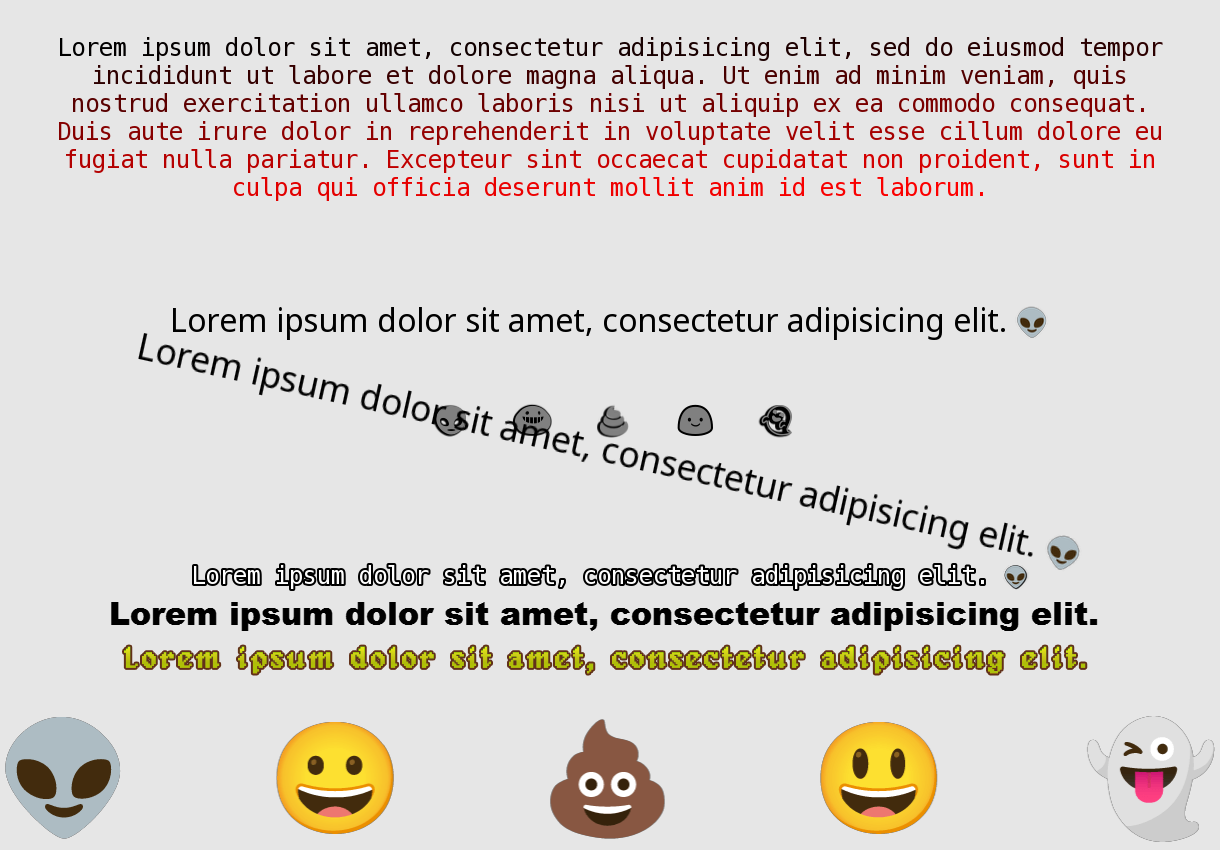
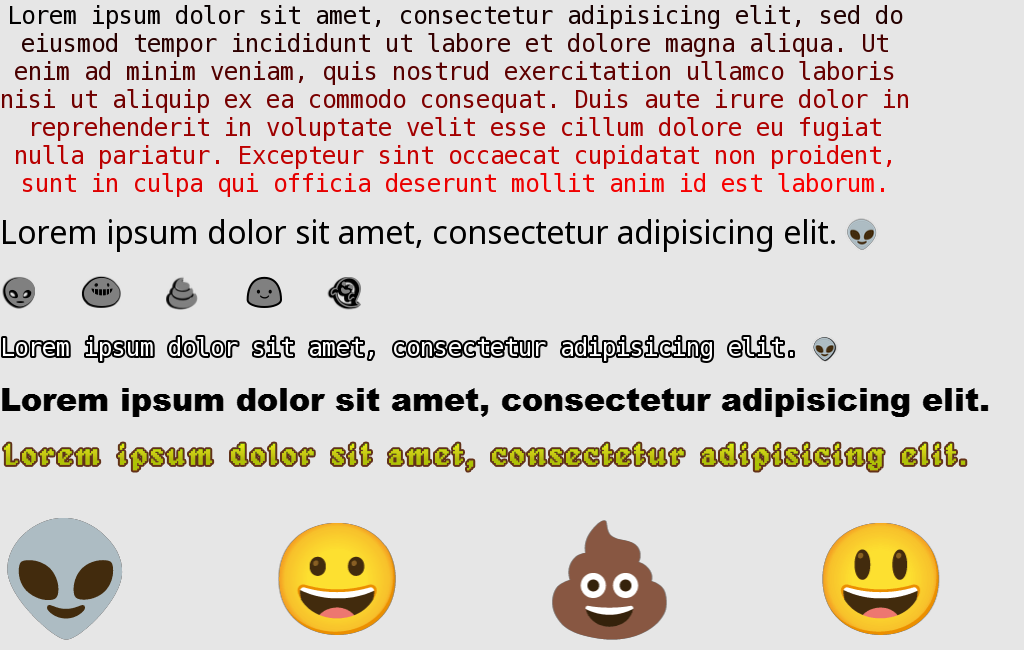
Test corrections.

Changed region(s): [[0.0, 0.3385, 1.0, 1.0], [0.0, 0.0, 0.9688, 0.3077], [0.0, 0.4308, 0.0312, 0.4923]]

diff --git a/src/tests/unit_tests/fontrendering.cpp b/src/tests/unit_tests/fontrendering.cpp
@@ -8,7 +8,7 @@ UTEST( FontRendering, fontsTest ) {
 	FileSystem::changeWorkingDirectory( Sys::getProcessPath() );
 
 	auto win = Engine::instance()->createWindow(
-		WindowSettings( 1220, 850, "eepp - Fonts", WindowStyle::Default, WindowBackend::Default, 32,
+		WindowSettings( 1024, 650, "eepp - Fonts", WindowStyle::Default, WindowBackend::Default, 32,
 						{}, 1, false, true ) );
 
 	if ( !win->isOpen() ) {
@@ -98,15 +98,15 @@ UTEST( FontRendering, fontsTest ) {
 	text7.setOutlineColor( Color( 0, 0, 0, 255 ) );
 
 	win->clear();
-	text.draw( std::floor( ( win->getWidth() - text.getTextWidth() ) * 0.5f ), 32 );
-	text2.draw( std::floor( ( win->getWidth() - text2.getTextWidth() ) * 0.5f ), 300 );
-	text7.draw( std::floor( ( win->getWidth() - text7.getTextWidth() ) * 0.5f ), 400 );
-	text2.draw( std::floor( ( win->getWidth() - text2.getTextWidth() ) * 0.5f ), 430,
-				Vector2f( 1.1f, 1.1f ), 12.5f );
-	text3.draw( std::floor( ( win->getWidth() - text3.getTextWidth() ) * 0.5f ), 560 );
-	text4.draw( std::floor( ( win->getWidth() - text4.getTextWidth() ) * 0.5f ), 590 );
-	text5.draw( std::floor( ( win->getWidth() - text5.getTextWidth() ) * 0.5f ), 640 );
-	text6.draw( 19 + std::floor( ( win->getWidth() - text6.getTextWidth() ) * 0.5f ), 690 );
+
+	Float offsetY = 0;
+	text.draw( 0, 0 );
+	text2.draw( 0, ( offsetY += text.getTextHeight() + 16 ) );
+	text7.draw( 0, ( offsetY += text2.getTextHeight() + 16 ) );
+	text3.draw( 0, ( offsetY += text7.getTextHeight() + 16 ) );
+	text4.draw( 0, ( offsetY += text3.getTextHeight() + 16 ) );
+	text5.draw( 0, ( offsetY += text4.getTextHeight() + 16 ) );
+	text6.draw( 0, ( offsetY += text5.getTextHeight() + 16 ) );
 
 	{
 		Image::FormatConfiguration fconf;
